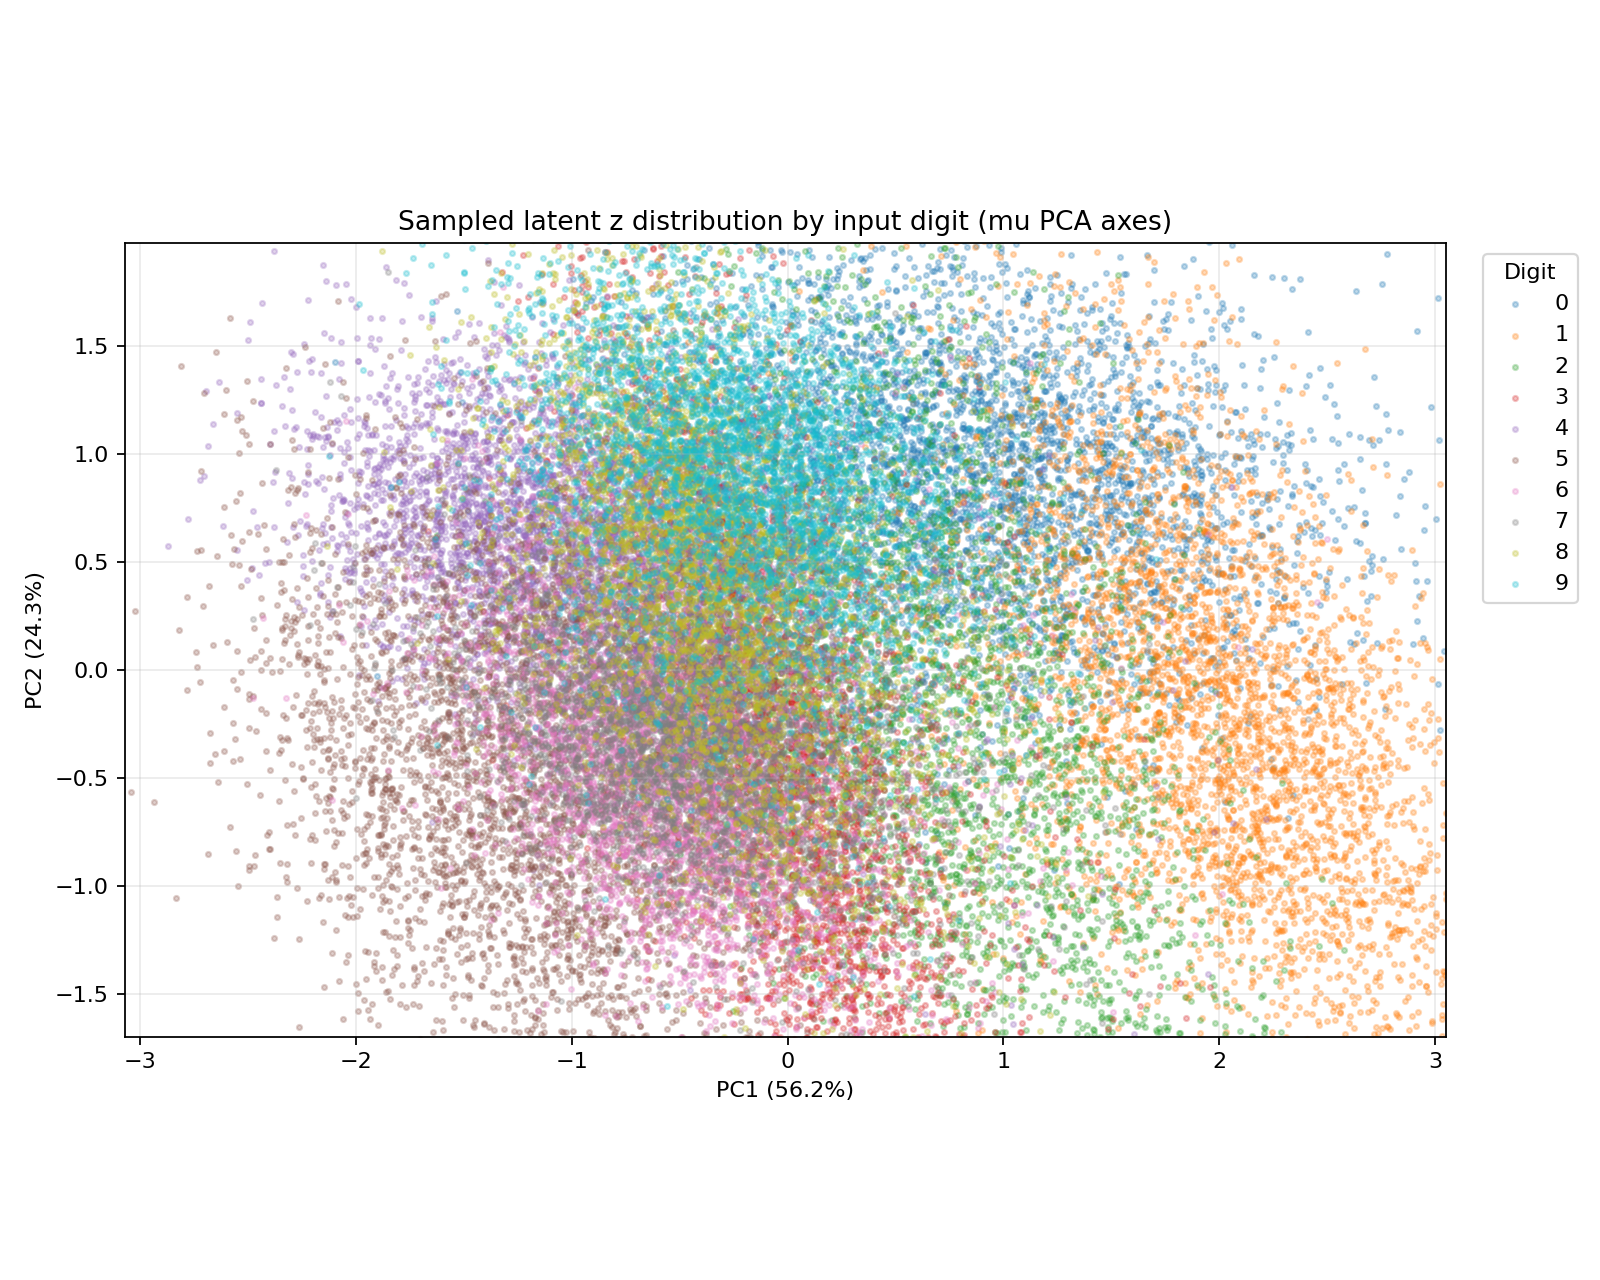
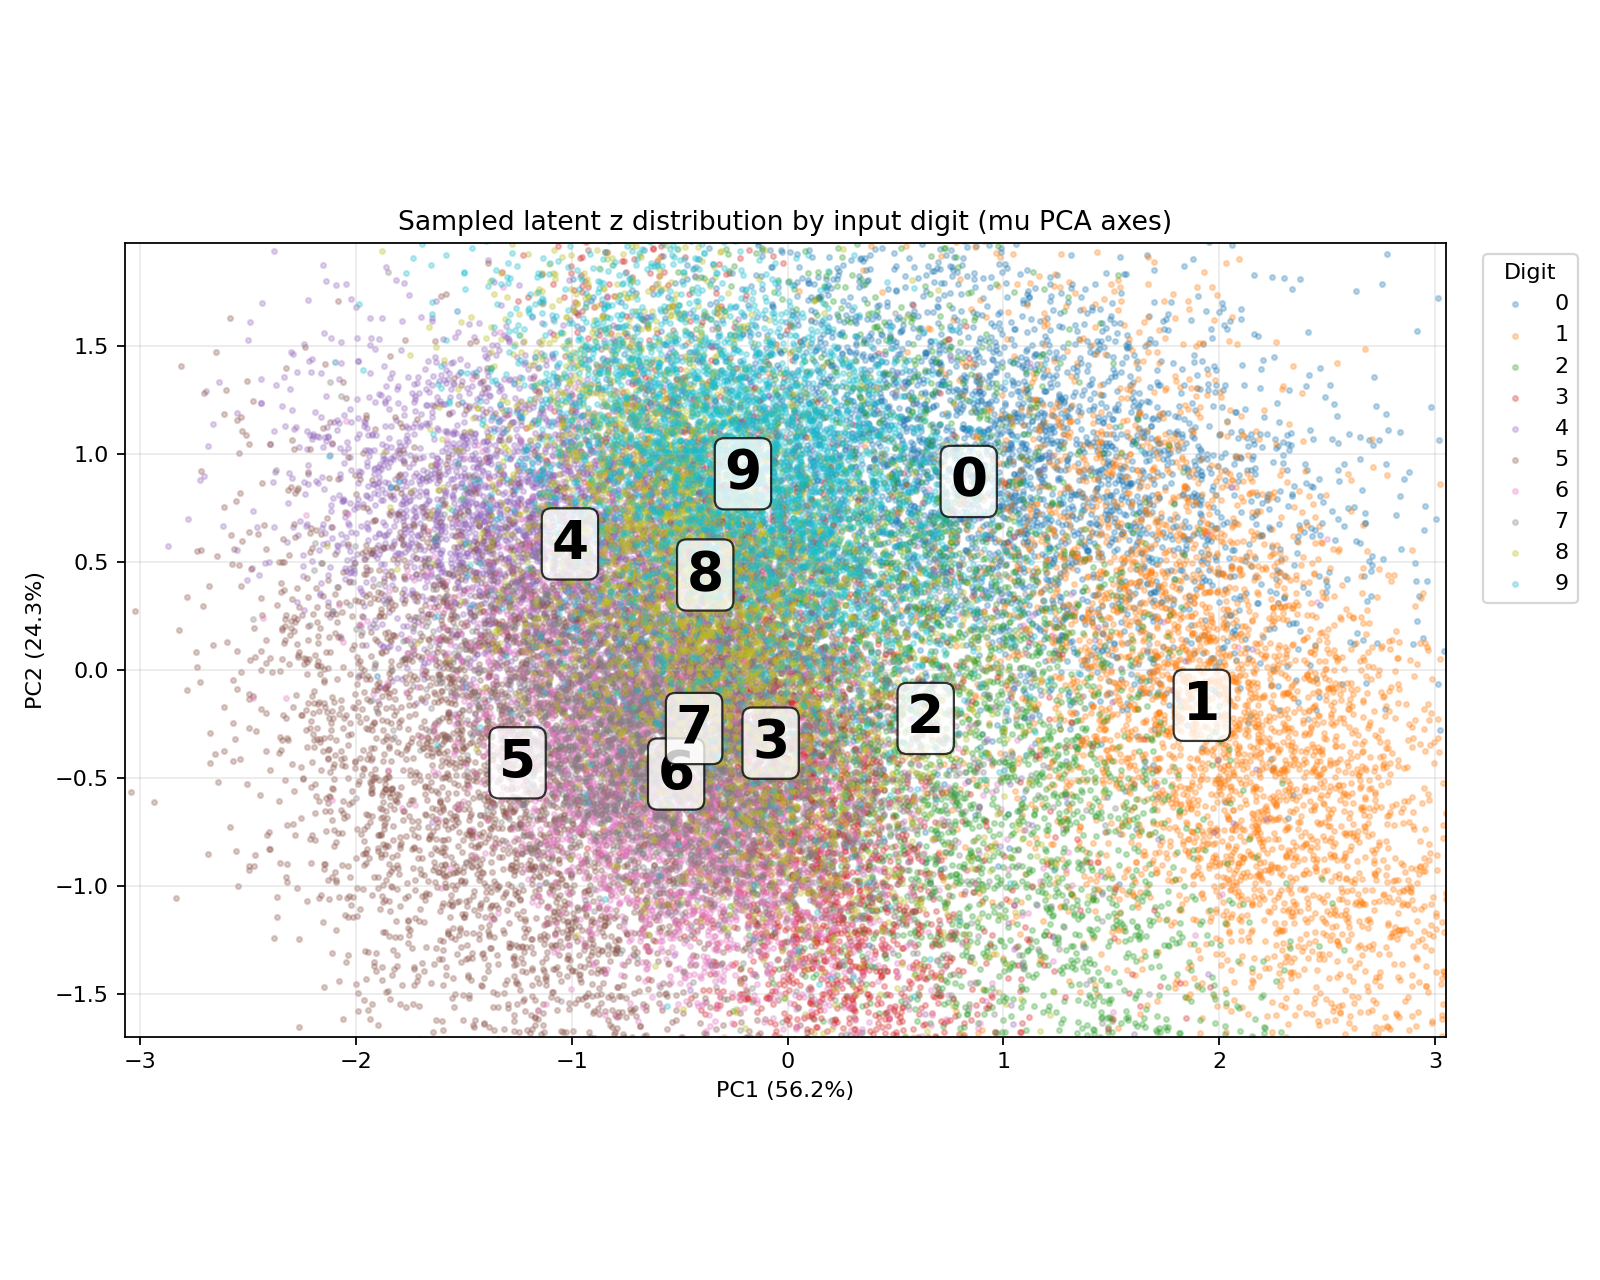
Annotate latent plots with digit labels

diff --git a/phoneme2img/sekitori_mnist-master/analyze_checkpoint.py b/phoneme2img/sekitori_mnist-master/analyze_checkpoint.py
@@ -66,6 +66,35 @@ def _padded_limits(xy, pad_ratio=0.08):
     return (mins[0] - pad[0], maxs[0] + pad[0]), (mins[1] - pad[1], maxs[1] + pad[1])
 
 
+def _annotate_digit_centers(ax, xy, labels, axis_limits):
+    xlim, ylim = axis_limits
+    visible = (
+        (xy[:, 0] >= xlim[0])
+        & (xy[:, 0] <= xlim[1])
+        & (xy[:, 1] >= ylim[0])
+        & (xy[:, 1] <= ylim[1])
+    )
+    for digit in range(10):
+        mask = (labels == digit) & visible
+        if not np.any(mask):
+            mask = labels == digit
+        if not np.any(mask):
+            continue
+        center = np.median(xy[mask], axis=0)
+        ax.text(
+            center[0],
+            center[1],
+            str(digit),
+            ha="center",
+            va="center",
+            fontsize=24,
+            fontweight="bold",
+            color="black",
+            bbox={"boxstyle": "round,pad=0.18", "facecolor": "white", "edgecolor": "black", "alpha": 0.78},
+            zorder=20,
+        )
+
+
 def _plot_latent_mu(mu_np, labels_np, out_path, pca, axis_limits):
     xy = pca.transform(mu_np)
 
@@ -84,6 +113,7 @@ def _plot_latent_mu(mu_np, labels_np, out_path, pca, axis_limits):
     ax.set_xlim(axis_limits[0])
     ax.set_ylim(axis_limits[1])
     ax.set_aspect("equal", adjustable="box")
+    _annotate_digit_centers(ax, xy, labels_np, axis_limits)
     plt.title("Encoded mu distribution by digit")
     plt.xlabel(f"PC1 ({pca.explained_variance_ratio_[0] * 100:.1f}%)")
     plt.ylabel(f"PC2 ({pca.explained_variance_ratio_[1] * 100:.1f}%)")
@@ -114,6 +144,7 @@ def _plot_latent_samples(z_np, labels_np, out_path, pca, axis_limits):
     ax.set_xlim(axis_limits[0])
     ax.set_ylim(axis_limits[1])
     ax.set_aspect("equal", adjustable="box")
+    _annotate_digit_centers(ax, xy, repeated_labels, axis_limits)
     plt.title("Sampled latent z distribution by input digit (mu PCA axes)")
     plt.xlabel(f"PC1 ({pca.explained_variance_ratio_[0] * 100:.1f}%)")
     plt.ylabel(f"PC2 ({pca.explained_variance_ratio_[1] * 100:.1f}%)")

diff --git a/phoneme2img/sekitori_mnist-master/EXPERIMENT_REPORT.md b/phoneme2img/sekitori_mnist-master/EXPERIMENT_REPORT.md
@@ -136,6 +136,7 @@ analysis/random_teacher/epoch_0200/
 
 観察結果:
 
+- 各数字クラスタの中心付近に、対応する数字ラベルを重ねて表示しています。
 - `mu` だけを見ると、0, 1, 4, 9などは比較的まとまった領域を持っています。
 - ただし中央付近で混ざる数字も多く、10クラスが明確に分離しているわけではありません。
 - 入力数字ごとにある程度の方向性は学習していますが、クラス境界は弱いです。
@@ -146,6 +147,7 @@ analysis/random_teacher/epoch_0200/
 
 観察結果:
 
+- 各数字クラスタの表示範囲内での中心付近に、対応する数字ラベルを重ねて表示しています。
 - PCA軸はencoder `mu` の散布図でfitした軸と同一です。
 - 描画範囲もencoder `mu` の散布図と同一です。
 - したがって、この図では `mu` の各点の周囲に、実際にサンプルされた `z` がどの程度広がるかを同じ座標系・同じ表示範囲で比較できます。
